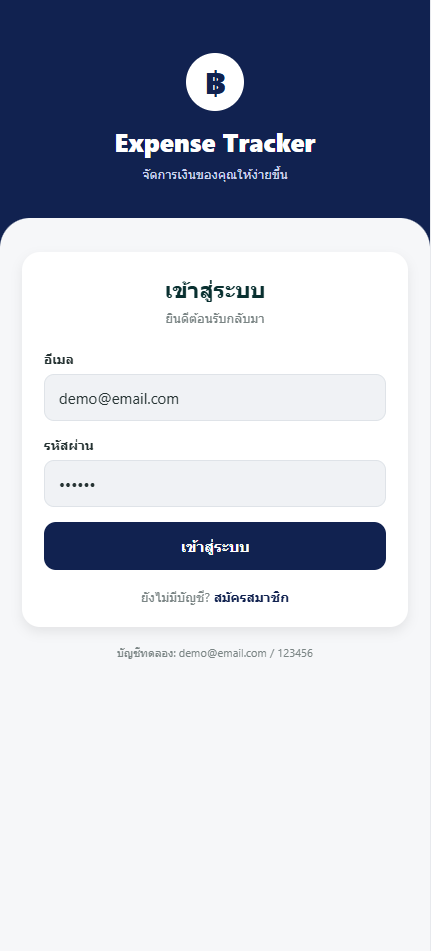
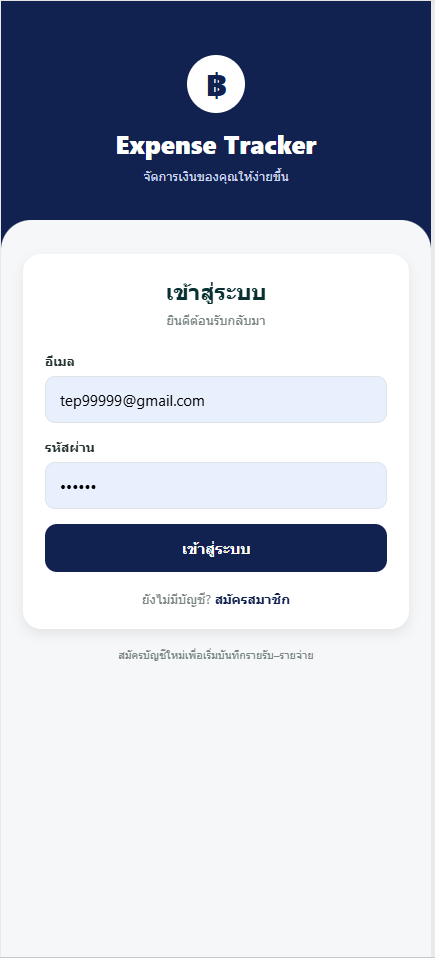
Update documentation for Firebase integration

diff --git a/README.md b/README.md
@@ -1,7 +1,6 @@
 # Expense Tracker
 
-A mobile expense tracker adapted from my previous Mobile Wallet design in Figma.  
-The project demonstrates a complete multi-screen application built with React Native, Expo, and TypeScript.
+A full-featured expense tracking application adapted from my previous Mobile Wallet design in Figma. The project demonstrates a multi-screen application built with React Native, Expo, TypeScript, Firebase Authentication, and Cloud Firestore.
 
 ## Screenshots
 
@@ -15,17 +14,19 @@ The project demonstrates a complete multi-screen application built with React Na
 
 ## Features
 
-- Sign in, sign up, edit profile, and sign out
-- Persistent local user session
+- Register and sign in with email and password
+- Persistent Firebase Authentication session
+- Edit user profile and sign out
 - Add income and expense transactions
 - Edit and delete transactions
 - Select transaction type and category
-- Record date, time, and notes
-- Automatically calculate income, expenses, and balance
+- Record transaction date, time, and notes
+- Automatically calculate total income, expenses, and balance
 - Dashboard with spending progress and category breakdown
 - Search and filter transaction history
 - Yearly summary with a monthly bar chart
-- Save transaction data locally using AsyncStorage
+- Real-time transaction updates from Cloud Firestore
+- User-specific data protected by Firestore Security Rules
 - Responsive mobile-style interface
 
 ## Technologies Used
@@ -33,9 +34,31 @@ The project demonstrates a complete multi-screen application built with React Na
 - React Native
 - Expo
 - TypeScript
-- AsyncStorage
+- Firebase Authentication
+- Cloud Firestore
+- AsyncStorage for authentication persistence
 - React Native Web
 - Figma
+
+## Database Structure
+
+```text
+users
+└── {userId}
+    ├── name
+    ├── email
+    └── transactions
+        └── {transactionId}
+            ├── title
+            ├── amount
+            ├── type
+            ├── category
+            ├── date
+            ├── time
+            └── note
+```
+
+Each authenticated user can access only their own profile and transactions through Firestore Security Rules.
 
 ## Design
 
@@ -64,13 +87,14 @@ Run the project on the web:
 npm run web
 ```
 
-## Demo Account
+You can create a new account from the sign-up screen and begin adding income or expense transactions.
 
-```text
-Email: demo@email.com
-Password: 123456
-```
+## Security
+
+Firestore rules require an authenticated user and restrict access to documents whose User ID matches the current Firebase Authentication UID.
+
+The active rules are available in [`firestore.rules`](firestore.rules).
 
 ## Project Purpose
 
-This project was created to demonstrate my ability to design and develop a functional mobile application using React Native, Expo, TypeScript, local data persistence, and Figma.
+This project was created to demonstrate my ability to design and develop a functional mobile application using React Native, Expo, TypeScript, Firebase Authentication, Cloud Firestore, and Figma.
